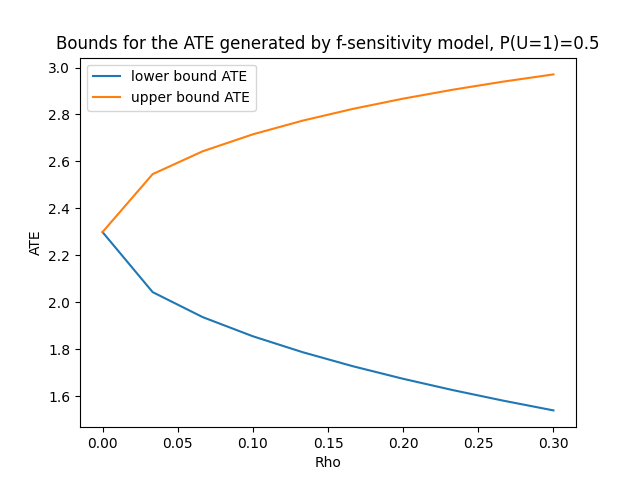
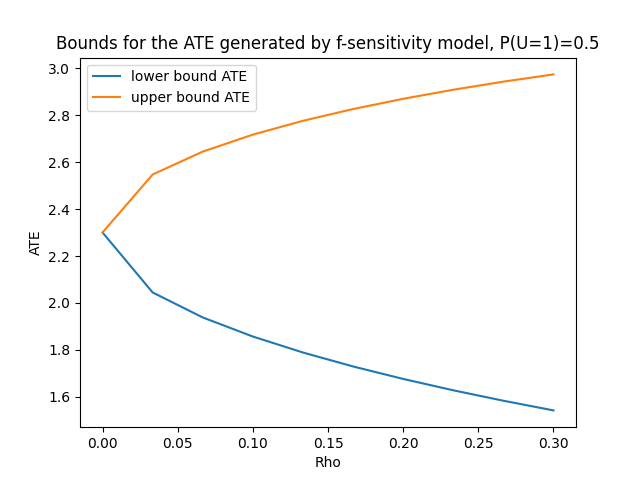
Add uncertainty from data

diff --git a/models/UncertaintySensitivityModels.py b/models/UncertaintySensitivityModels.py
@@ -9,7 +9,7 @@ import matplotlib.pyplot as plt
 import pandas as pd
 
 
-def create_msm_model(data, gamma, treatement, is_lower_bound):
+def create_msm_model(data, gamma, treatement, is_lower_bound, alpha_prop, alpha_prob):
     # Data according to treated
     all_data = data
     data = data[data["T0"] == treatement]
@@ -38,7 +38,6 @@ def create_msm_model(data, gamma, treatement, is_lower_bound):
     x_and_y_features.append("Y0")
     y_probabilities = data.groupby(x_and_y_features, as_index=False).size()
     y_probabilities["probability"] = y_probabilities["size"] / sum(y_probabilities["size"])
-    n = sum(y_probabilities["size"])
 
     def propensity(x_index):
         x = X.iloc[x_index]
@@ -68,45 +67,81 @@ def create_msm_model(data, gamma, treatement, is_lower_bound):
     def get_value(y):
         return Y.iloc[y]["Y0"]
 
+    def epsilon_propensity(x_index):
+        x = X.iloc[x_index]
+        return np.sqrt(1 / x["size"] * np.log(2 / alpha_prop))
+
+    def epsilon_probability(x_index, y_index):
+        count = size(y_index, x_index)
+        if count == 0:
+            return 0
+        return np.sqrt(1 / count * np.log(2 * y_size / alpha_prob))
+
     model = ConcreteModel(name="MarginalSensitivityModel")
     model.X = RangeSet(0, x_size - 1)
     model.Y = RangeSet(0, y_size - 1)
     model.lam = Var(model.X, model.Y, bounds=(1 / gamma, gamma), initialize=1)
+    model.propensity = Var(model.X, bounds=(0, 1))
+    model.prob = Var(model.X, model.Y, bounds=(0, 1))
 
     # Constraint 1: Lambda is a distribution of Y | X, T
     def distribution_constraint(model):
-        return sum([sum(model.lam[x, y] * size(y ,x) for y in model.Y) for x in model.X]) / n == 1
+        return sum([sum(model.lam[x, y] * model.prob[x, y] for y in model.Y) * X.iloc[x]["size"] for x in model.X]) / sum(X["size"]) == 1
 
     model.c1 = Constraint(rule=distribution_constraint)
 
     # Constraint 2: Propensity scores remains unchanged
     def propensity_constraint(model):
-        return sum([sum([propensity(x) * model.lam[x, y] * size(y, x) for y in model.Y]) for x in model.X]) / n == sum(
-            [sum([propensity(x) * size(y, x) for y in model.Y]) for x in model.X]) / n
+        return sum([sum([model.propensity[x] * model.lam[x, y] * model.prob[x, y] for y in model.Y]) for x in model.X]) == sum(
+            [sum([model.propensity[x] * model.prob[x, y] for y in model.Y]) for x in model.X])
 
     model.c2 = Constraint(rule=propensity_constraint)
 
     # Constraint 3: Distribution of Y unchanged
     def p_constraint(model):
-        return sum([sum([p(y, x) * model.lam[x, y] * X.iloc[x]["size"] for x in model.X]) / sum(X["size"]) for y in model.Y]) == sum([sum(
-            [p(y, x) * X.iloc[x]["size"] for x in model.X]) / sum(X["size"]) for y in model.Y])
+        return sum([sum([model.prob[x, y] * model.lam[x, y] * X.iloc[x]["size"] for x in model.X]) / sum(X["size"]) for y in
+                    model.Y]) == sum([sum(
+            [model.prob[x, y] * X.iloc[x]["size"] for x in model.X]) / sum(X["size"]) for y in model.Y])
 
     model.c3 = Constraint(rule=p_constraint)
 
+    # Constraint 4: Propensity definition
+    def propensity_definition_constraint(model, x):
+        expected_propensity = propensity(x)
+        bound = epsilon_propensity(x)
+        return max(0, expected_propensity - bound), model.propensity[x], min(1, expected_propensity + bound)
+
+    model.c4 = Constraint(model.X, rule=propensity_definition_constraint)
+
+    # Constraint 5: Probability of Y given X definition
+    def probability_of_y_constraint(model, x, y):
+        expected_prob = p(y, x)
+        bound = epsilon_probability(x, y)
+        return max(0, expected_prob - bound), model.prob[x, y], min(1, expected_prob + bound)
+
+    model.c5 = Constraint(model.X, model.Y, rule=probability_of_y_constraint)
+
+    # Constraint 6: Probability over y is 1
+    def probability_distribution_constraint(model, x):
+        return sum([model.prob[x, y] for y in model.Y]) == 1
+
+    model.c6 = Constraint(model.X, rule=probability_distribution_constraint)
+
     # Objective: Find the bound
     def objective_function(model):
-        return sum([sum([get_value(y) * model.lam[x, y] * size(y, x) for y in model.Y]) for x in model.X]) / n
+        return sum([sum([get_value(y) * model.lam[x, y] * model.prob[x, y] for y in model.Y]) * X.iloc[x]["size"] for x in model.X]) / sum(X["size"])
 
     model.OBJ = Objective(rule=objective_function,
                           sense=pyomo.core.minimize if is_lower_bound else pyomo.core.maximize)
 
-    opt = SolverFactory('glpk')
+    opt = SolverFactory('ipopt')
     opt.solve(model)
     # model.display()
+    # exit()
     return model.OBJ()
 
 
-def create_f_sensitivity_model(data, rho, treatment, is_lower_bound):
+def create_f_sensitivity_model(data, rho, treatment, is_lower_bound, alpha_prop, alpha_prob):
     # Data according to treated
     all_data = data
     p_treated = len(data[data["T0"] == treatment]) / len(all_data)
@@ -153,50 +188,85 @@ def create_f_sensitivity_model(data, rho, treatment, is_lower_bound):
             return 0
         return selection["size"].iloc[0]
 
+    def p(y_index, x_index):
+        x = X.iloc[x_index]
+        y = Y.iloc[y_index]
+        selection = y_probabilities[
+            np.all(y_probabilities[x_features] == x[x_features], axis=1) & np.all(y_probabilities[["Y0"]] == y[["Y0"]],
+                                                                                  axis=1)]
+        if len(selection) == 0:
+            return 0
+        return selection["size"].iloc[0] / x["size"]
+
     def get_value(y):
         return Y.iloc[y]["Y0"]
 
-    def r(x):
-        return (1 - propensity(x)) * p_treated / (propensity(x) * (1 - p_treated))
+    def epsilon_propensity(x_index):
+        x = X.iloc[x_index]
+        return np.sqrt(1 / x["size"] * np.log(2 / alpha_prop))
+
+    def epsilon_probability(x_index, y_index):
+        count = size(y_index, x_index)
+        if count == 0:
+            return 0
+        return np.sqrt(1 / count * np.log(2 * y_size / alpha_prob))
+
 
     model = ConcreteModel(name="FSensitivityModel")
     model.X = RangeSet(0, x_size - 1)
     model.Y = RangeSet(0, y_size - 1)
     model.L = Var(model.X, model.Y, initialize=1, within=NonNegativeReals)
+    model.propensity = Var(model.X, bounds=(0, 1))
+    model.prob = Var(model.X, model.Y, bounds=(0, 1))
+
+    def r(model, x):
+        mean = sum([model.propensity[x] * X.iloc[x]["size"] for x in model.X]) / sum(X["size"])
+        return (1 - model.propensity[x]) * mean / (model.propensity[x] * (1 - mean) + 0.00001)
 
     # Constraint 1: Definition of R
     def r_constraint(model, x):
-        return r(x) == sum([model.L[x, y] * size(y, x) for y in model.Y]) / X.iloc[x]["size"]
+        return r(model, x) == sum([model.L[x, y] * model.prob[x, y] for y in model.Y])
 
     model.c1 = Constraint(model.X, rule=r_constraint)
 
-    # # Constraint 2: R is a distribution
-    # def r_distribution_constraint(model):
-    #     return sum([model.R[x] for x in model.X]) == 1
-    #
-    # model.c2 = Constraint(rule=r_distribution_constraint)
-
-    # Constraint 3: MSM assumption
+    # Constraint 2: MSM assumption
     def f_constraint(model, x):
-        return sum([f(model.L[x, y] / r(x)) * size(y, x) for y in model.Y]) / X.iloc[x]["size"] <= rho
+        return sum([f(model.L[x, y] / r(model, x)) * model.prob[x, y] for y in model.Y]) <= rho
 
-    model.c3 = Constraint(model.X, rule=f_constraint)
+    model.c2 = Constraint(model.X, rule=f_constraint)
 
-    # # Constraint 4: L distribution constraint
-    # def l_distribution_constraint(model):
-    #     return sum([sum([model.L[x, y] for y in model.Y]) for x in model.X]) / (x_size * y_size) == 1
-    #
-    # model.c4 = Constraint(rule=l_distribution_constraint)
+    # Constraint 3: Propensity definition
+    def propensity_definition_constraint(model, x):
+        expected_propensity = propensity(x)
+        bound = epsilon_propensity(x)
+        return max(0, expected_propensity - bound), model.propensity[x], min(1, expected_propensity + bound)
+
+    model.c3 = Constraint(model.X, rule=propensity_definition_constraint)
+
+    # Constraint 4: Probability of Y given X definition
+    def probability_of_y_constraint(model, x, y):
+        expected_prob = p(y, x)
+        bound = epsilon_probability(x, y)
+        return max(0, expected_prob - bound), model.prob[x, y], min(1, expected_prob + bound)
+
+    model.c4 = Constraint(model.X, model.Y, rule=probability_of_y_constraint)
+
+    # Constraint 5: Probability over y is 1
+    def probability_distribution_constraint(model, x):
+        return sum([model.prob[x, y] for y in model.Y]) == 1
+
+    model.c5 = Constraint(model.X, rule=probability_distribution_constraint)
+
 
     # Objective: E[Y * L(X, Y)]
     def objective_function(model):
-        return sum([sum([get_value(y) * model.L[x, y] * size(y, x) for y in model.Y]) for x in model.X]) / n
+        return sum([sum([get_value(y) * model.L[x, y] * model.prob[x, y] for y in model.Y]) * X.iloc[x]["size"] for x in model.X]) / sum(X["size"])
 
     model.OBJ = Objective(rule=objective_function,
                           sense=pyomo.core.minimize if is_lower_bound else pyomo.core.maximize)
 
     opt = SolverFactory('ipopt')
-    opt.options['max_iter'] = 1000
+    # opt.options['max_iter'] = 1000
     # opt.options['acceptable_tol'] = 0.000001
     opt.solve(model)
     # model.display()
@@ -205,9 +275,9 @@ def create_f_sensitivity_model(data, rho, treatment, is_lower_bound):
 
 
 def bounds_creator(data, sensitivity_model, sensitivity_measure):
-    sensitivity = (lambda t, l: create_msm_model(data, gamma=sensitivity_measure, treatement=t, is_lower_bound=l)) \
+    sensitivity = (lambda t, l: create_msm_model(data, gamma=sensitivity_measure, treatement=t, is_lower_bound=l, alpha_prop=0.025, alpha_prob=0.025)) \
         if sensitivity_model == 'msm' else \
-        lambda t, l: create_f_sensitivity_model(data, rho=sensitivity_measure, treatment=t, is_lower_bound=l)
+        lambda t, l: create_f_sensitivity_model(data, rho=sensitivity_measure, treatment=t, is_lower_bound=l, alpha_prop=0.025, alpha_prob=0.025)
     lower_control_bound = sensitivity(0, True)
     lower_treated_bound = sensitivity(1, True)
     upper_control_bound = sensitivity(0, False)
@@ -222,13 +292,13 @@ def bounds_creator(data, sensitivity_model, sensitivity_measure):
 
 
 if __name__ == '__main__':
-    p = "5"
+    p = "01"
     df = pd.read_csv(f"../csv_files/regular_{p}.csv")
     lower_res = []
     upper_res = []
     control = []
     treated = []
-    gammas = np.linspace(1, 10, 10)
+    gammas = np.linspace(1, 3, 10)
     for gamma in gammas:
         y_control, y_treated, lower_control, lower_treated, upper_control, upper_treated = bounds_creator(df,
                                                                                                           sensitivity_model='msm',
@@ -266,7 +336,7 @@ if __name__ == '__main__':
     upper_res = []
     control = []
     treated = []
-    rhos = np.linspace(0, 0.3, 10)
+    rhos = np.linspace(0, 0.3, 4)
     p_treated = len(df[df["T0"] == 1]) / len(df)
     for rho in rhos:
         y_control, y_treated, lower_control, lower_treated, upper_control, upper_treated = bounds_creator(df,

diff --git a/regular_setting_main.py b/regular_setting_main.py
@@ -14,7 +14,7 @@ if __name__ == '__main__':
     }
 
     # Generators
-    u_gen = lambda noise: [1 if np.random.rand() >= 0.5 else 0]
+    u_gen = lambda noise: [1 if np.random.rand() >= 0.99 else 0]
     x_gen = lambda u, noise: [1 if np.random.rand() >= 0.5 else 0 for _ in range(sizes["X"])]
     t_gen = lambda u, x, noise: [1 if np.random.rand() + 0.2 * u[0] - 0.1 * x[0] >= 0.6 else 0]
     y_gen = lambda u, x, t, noise: [int(x[0] + u[0] + 2 * t[0])]
@@ -33,7 +33,7 @@ if __name__ == '__main__':
     }
 
     generator = RegularGenerator(generators=generators, noise_generators=noise, sizes=sizes)
-    path = "./csv_files/regular.csv"
+    path = "./csv_files/regular_01.csv"
     df = generator.generate(num_rows=n_rows, n_jobs=n_jobs, path=path)
     print(df.mean(axis=0))
 
